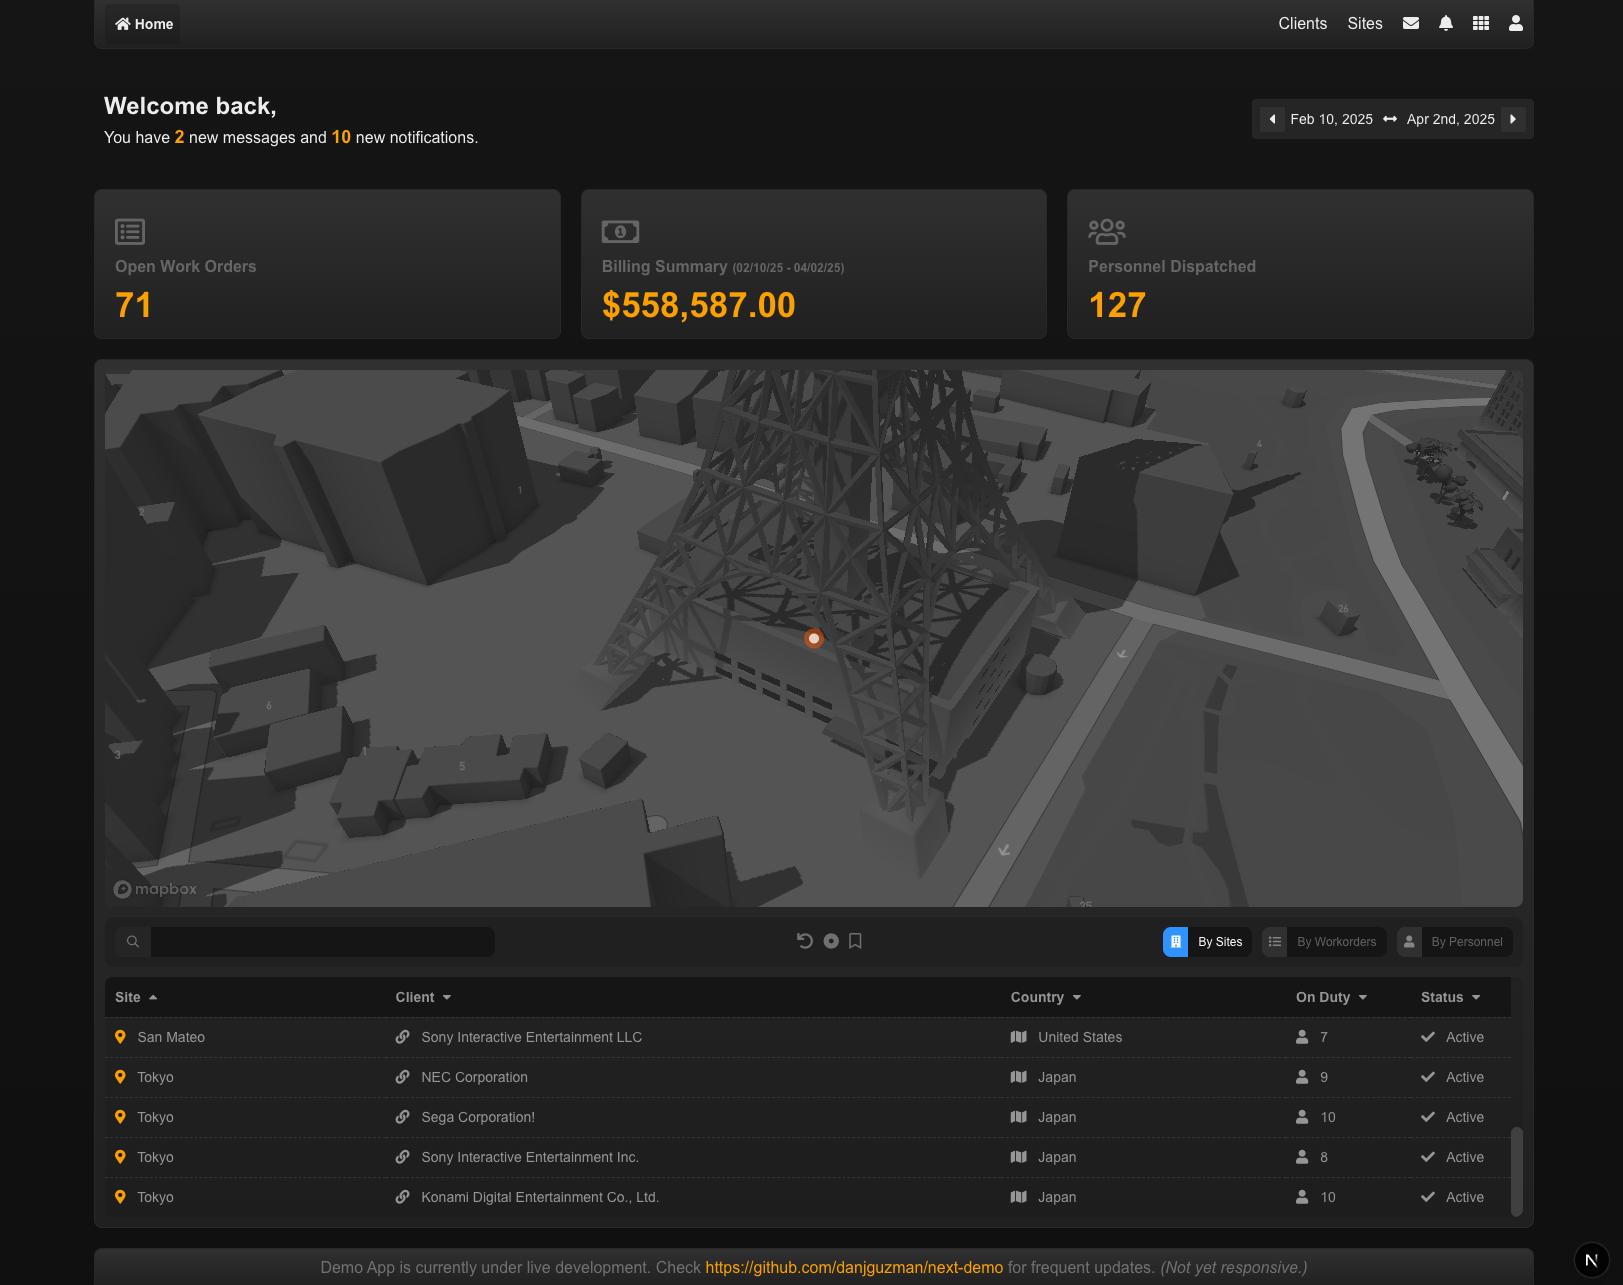
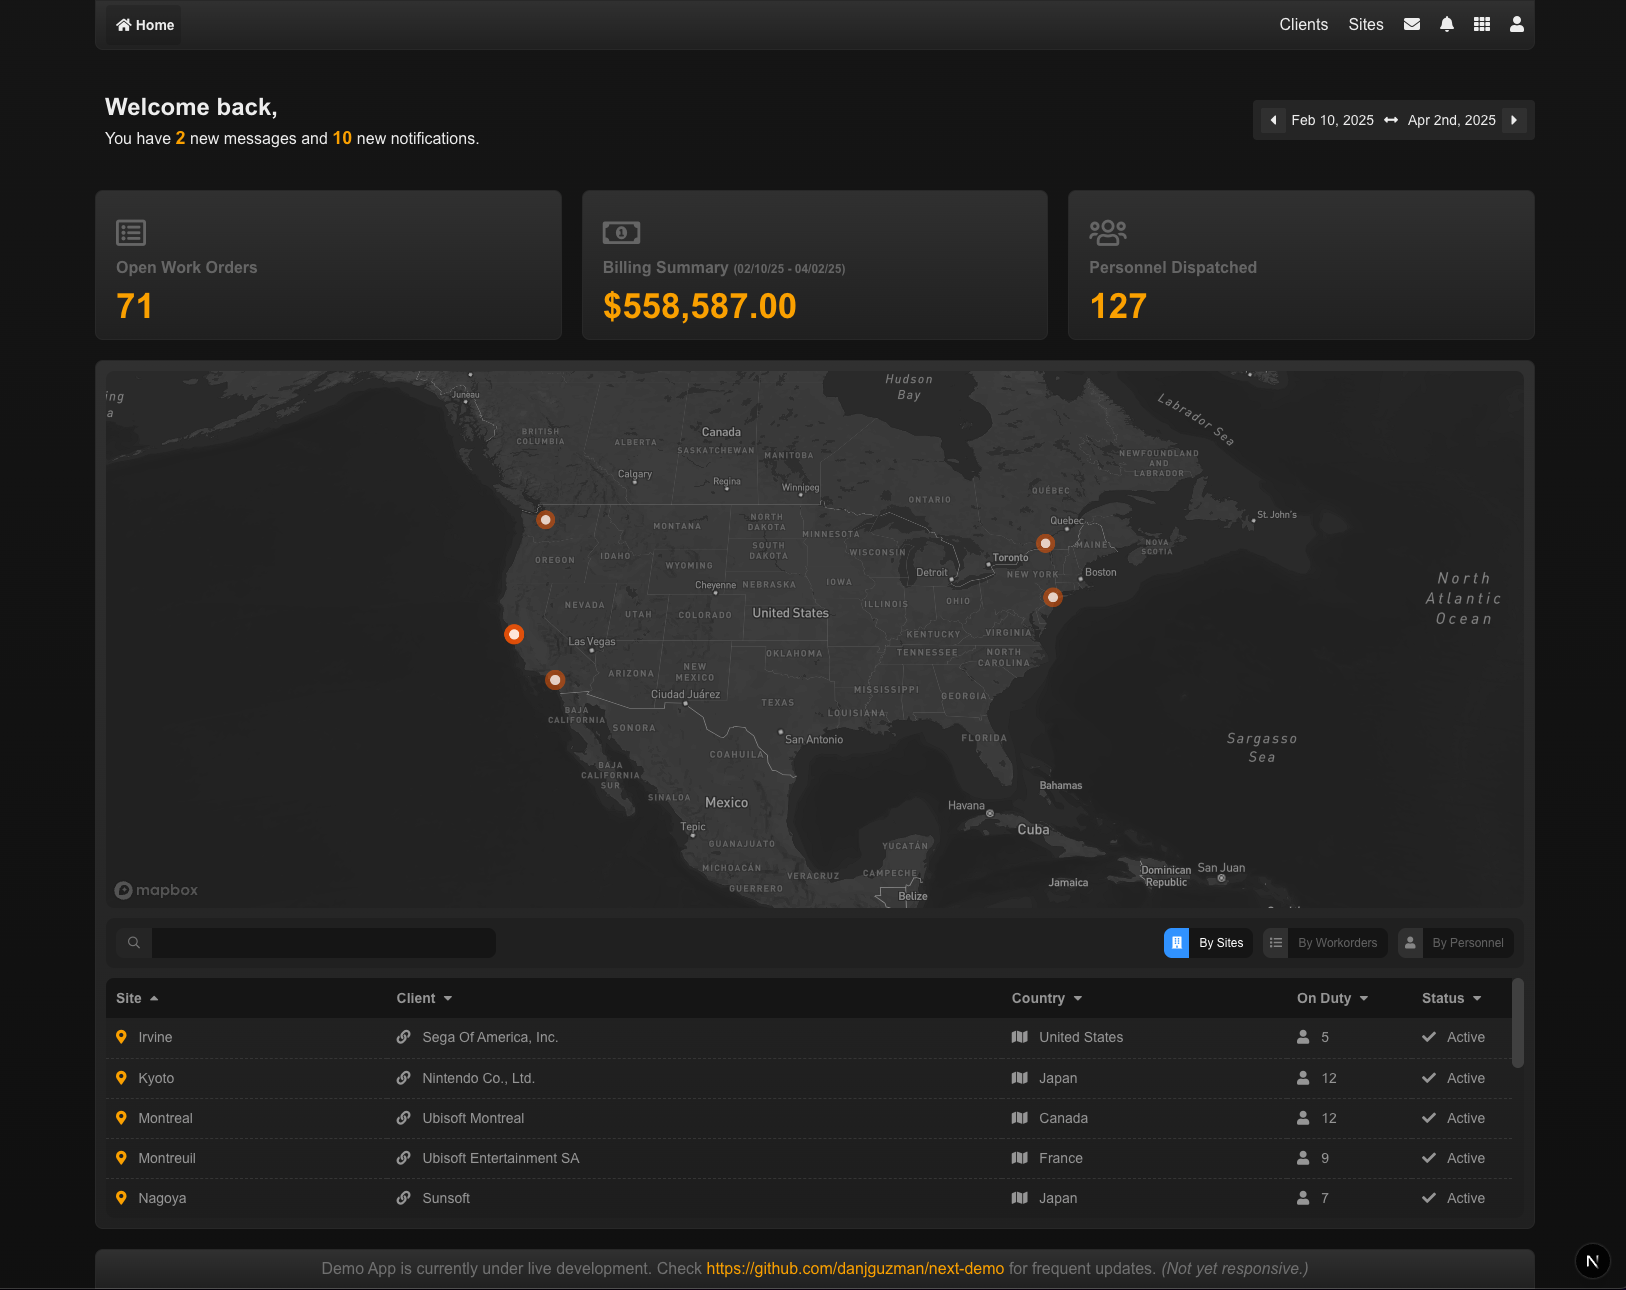
Updated Readme and Screenshot

diff --git a/README.md b/README.md
@@ -4,7 +4,7 @@
   <img src="screenshot.png" alt="Screenshot of the demo">
 </div>
 
-This is a mock-up of a Facility Management platform—though it’s flexible enough to work for any industry—built as a live demo project with React and Next.js to showcase my front-end development skills. It focuses on crafting reusable components, managing data with a state manager (like Zustand), and wrangling data from multiple sources—fetching, parsing, and blending it into clean, UI-ready states.
+This is a mock-up of a Facility Management platform—though it’s flexible enough to work for any industry—built as a live demo project with React and Next.js to showcase my front-end development skills. It focuses on crafting reusable components, managing data with a state manager (like Zustand and Redux), and wrangling data from multiple sources—fetching, parsing, and blending it into clean, UI-ready states.
 
 The project is fully open—including all commits—and you’re welcome to follow along as I turn ideas into solid, working software. It’s still actively in development, so you might notice a few issues here and there until I get them sorted out.
 
@@ -15,10 +15,14 @@ The project is fully open—including all commits—and you’re welcome to foll
 This demo includes some core features you’d typically find in platforms similar to this:
 
 - A dynamically generated table with sorting, making it easy to organize and explore data.
-- A Mapbox-powered map with custom markers to visualize locations or assets.
+- A Mapbox-powered map with custom markers to visualize locations, in 2D and 3D.
 - Tiles that update with live data, showing real-time info in a clean, modular way.
+- Redux Toolkit implementation.
 
-*Demo coded by me, not AI.*
+## Developer Notes
+
+- This is focused  on showcasing my code—live demo coming soon.
+- Demo coded by me, not AI.
 
 ## Installation
 
